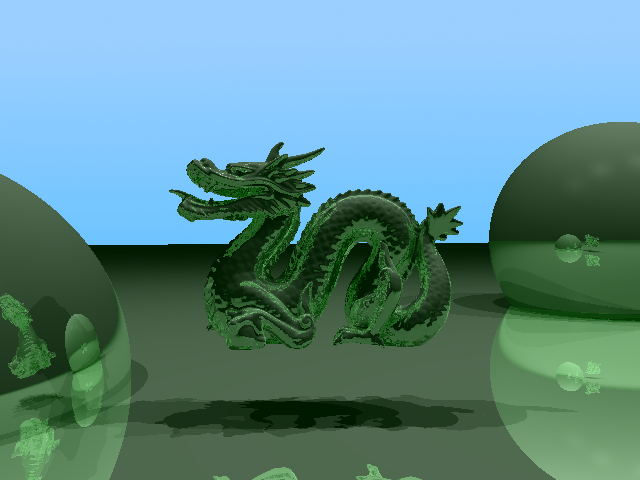
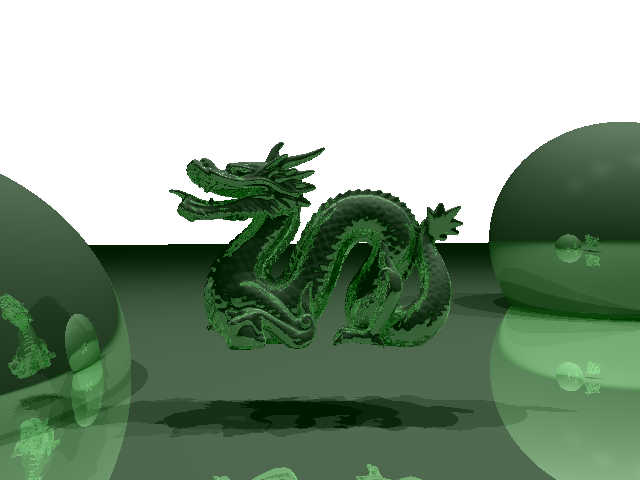
PWV-82 - Add details section 1 to Computer Anim Card

diff --git a/src/locales/en/ProjectsView.i18n.en.js b/src/locales/en/ProjectsView.i18n.en.js
@@ -241,6 +241,57 @@ export default {
         altText2: 'A flat wiremesh outline of a human is drawing the word "Hello" on a blackboard. Each arm joint is depicted by a red circle.',
         altText3: 'A Tetris board with multiple blocks clumsily stacked. A red block is currently falling. The game window has a blue background and instructions on how to play are on the left of the board with the score on the right.',
       },
+      details1: {
+        title: 'Graphical Rendering',
+        para1: `
+          This section outlines a few examples of the graphics rendering work I have done in C++.
+        `,
+        para2: 'Ray-Traced Rendering & Reflections:',
+        para3: `
+          Here are some sample images generated by my ray-traced rendering program.
+          In the image below, the entire scene and the shadows created by the four spotlights
+          above are all rendered using ray tracing.
+        `,
+        para4: `
+          The second image is the result of adding ray-traced reflections and making
+          each object very reflective. The reflections here have a bounce recursion depth of five,
+          making it possible to observe reflections within reflections. Lastly, this image also
+          applies Cubic Perlin Noise to the green sphere to give it a textured look.
+        `,
+        para5: `
+          While all this ray tracing computation works well for spheres, it becomes demanding
+          to run on 3D models with millions of triangles such as the dragon in the image below.
+          For this, I introduced a Bounding Volume Hierarchy (BVH) structure
+          (in this case an AABB Tree) which helps the program find which triangles collide
+          with rays much more efficiently. This makes rendering speeds hundreds of times faster,
+          making rendering complex models more feasible.
+        `,
+        para6: `
+          We can now even add reflections to our complex model
+          without a significant performance hit.
+        `,
+        para7: 'Raster Rendering & Per-Vertex Shading:',
+        para8: `
+          The bunny images below are rendered using my rasterization program.
+          Here, per-vertex shading uses the normals of the model's vertices to
+          smoothly blend the shading of each triangle face. This trick allows the model
+          to look much more realistic, even if the actual triangle count of the model
+          is fairly low. The two images below highlight this improvement:
+        `,
+        relatedLinks1: 'View "Raytracer-AABB-Tree" on GitHub.',
+        caption1: `
+          The bunny model rendered using per-vertex shading.
+        `,
+        caption2: `
+          The bunny model using flat shading makes its low triangle count more apparent.
+        `,
+        altText1: 'A ray traced render of multiple grey spheres resting on a flat surface and casting shadows on it. There is a green sphere on the left with a checkerboard texture.',
+        altText2: 'The same grey spheres now with reflections. Every sphere is reflected on one another. The green sphere now has a smooth blend of green and black spots from the Perlin Noise.',
+        altText3: 'A detailed 3D model of a dragon. The dragon is green with shadowed regions. The dragon is casting multiple shadows on the ground due to the many spotlights above.',
+        altText4: 'The same detailed 3D model of a dragon. The dragon is green and now reflective. Around the dragon are some green reflective spheres on which we can see reflections of the dragon.',
+        altText5: 'A GIF of a rotating 3D model of a bunny. The bunny is grey and has a smooth shading gradient across its surface.',
+        altText6: 'The same bunny model using flat shading. Each triangle on the model has constant shading across its surface making the triangles more apparent.',
+      },
     },
   },
 };

diff --git a/src/views/ProjectsView.vue b/src/views/ProjectsView.vue
@@ -245,7 +245,7 @@ function incrementPlaceholderImageCounter() {
         :heading="t('computerAnimAndRender.title')"
         :previewImgList="[
           {
-            imgPath: 'projects/gameDev/computerAnimAndRender/raytrace-dragon-tree.png',
+            imgPath: 'projects/gameDev/computerAnimAndRender/raytrace-dragon-tree-skybox.png',
             captionText: t('computerAnimAndRender.previewImg.caption1'),
             altText: t('computerAnimAndRender.previewImg.altText1'),
           },
@@ -281,6 +281,80 @@ function incrementPlaceholderImageCounter() {
           <br><br>
           {{ t('computerAnimAndRender.introPara10') }}
         </template>
+
+        <h4>{{ t('computerAnimAndRender.details1.title') }}</h4>
+        <p>
+          {{ t('computerAnimAndRender.details1.para1') }}
+          <br><br>
+          <u><b>{{ t('computerAnimAndRender.details1.para2') }}</b></u>
+          <br>
+          {{ t('computerAnimAndRender.details1.para3') }}
+        </p>
+        <ImageFrame
+          imgPath="projects/gameDev/computerAnimAndRender/raytrace-shadow.png"
+          :altText="t('computerAnimAndRender.details1.altText1')"
+          widthPercent="100%"
+        />
+        <br>
+        <p>
+          {{ t('computerAnimAndRender.details1.para4') }}
+        </p>
+        <ImageFrame
+          imgPath="projects/gameDev/computerAnimAndRender/raytrace-perlin-cubic.png"
+          :altText="t('computerAnimAndRender.details1.altText2')"
+          widthPercent="100%"
+        />
+        <br>
+        <p>
+          {{ t('computerAnimAndRender.details1.para5') }}
+          <br><br>
+          {{ t('computerAnimAndRender.details1.para6') }}
+        </p>
+        <ImageCollection
+          :imgList="[
+            {
+              imgPath: 'projects/gameDev/computerAnimAndRender/raytrace-dragon-tree-without-reflections.png',
+              altText: t('computerAnimAndRender.details1.altText3'),
+            },
+            {
+              imgPath: 'projects/gameDev/computerAnimAndRender/raytrace-dragon-tree.png',
+              altText: t('computerAnimAndRender.details1.altText4'),
+            },
+          ]"
+          imgWidth="490px"
+        />
+        <br>
+        <RelatedLinks
+          :linkObjectsList="[
+            {
+              url: 'https://github.com/olivier361/Raytracer-AABB-Tree',
+              teaserText: t('computerAnimAndRender.details1.relatedLinks1'),
+            },
+          ]"
+        />
+        <br>
+        <p>
+          <u><b>{{ t('computerAnimAndRender.details1.para7') }}</b></u>
+          <br>
+          {{ t('computerAnimAndRender.details1.para8') }}
+        </p>
+        <ImageCollection
+          :imgList="[
+            {
+              imgPath: 'projects/gameDev/computerAnimAndRender/pv-shading-animation.gif',
+              captionText: t('computerAnimAndRender.details1.caption1'),
+              altText: t('computerAnimAndRender.details1.altText5'),
+            },
+            {
+              imgPath: 'projects/gameDev/computerAnimAndRender/flat-shading-animation.gif',
+              captionText: t('computerAnimAndRender.details1.caption2'),
+              altText: t('computerAnimAndRender.details1.altText6'),
+            },
+          ]"
+          imgWidth="490px"
+        />
+
+        <hr class="info-divider">
 
       </ProjectCard>
       <ProjectCard
